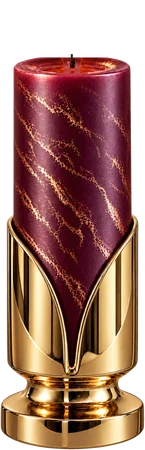
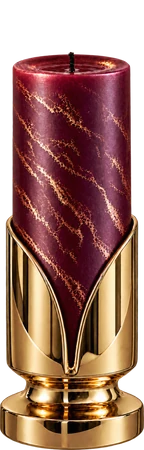
Candle wheel on phones: the owner's transparent tall candle, lit and unlit
Claude-Session: https://claude.ai/code/session_01WzDdbUoD3YvZzaMURB5SSu

diff --git a/js/main.js b/js/main.js
@@ -3034,7 +3034,7 @@ var UI = (function () {
     var tall = false;
     function pickSet(t) {
       tall = t;
-      if (t) { NAMES = ["candle-tall-lit", "candle-tall-unlit"]; T_ASP = U_ASP = 512 / 1589; T_AX = U_AX = 0.496; T_AY = U_AY = 0.998; U_H = 1; FL = 0.90; }
+      if (t) { NAMES = ["candle-tall-lit", "candle-tall-unlit"]; T_ASP = U_ASP = 507 / 1584; T_AX = U_AX = 0.495; T_AY = U_AY = 0.999; U_H = 1; FL = 0.94; }
       else   { NAMES = ["candle-turn-03", "candle-unlit"]; T_ASP = 336 / 900; T_AX = 0.502; T_AY = 0.997; U_ASP = 711 / 900; U_AX = 370 / 711; U_AY = 897 / 900; U_H = 328 / 338; FL = 0.94; }
     }
     var imgs = [[], []];                                        /* [450 set, 900 set] */
